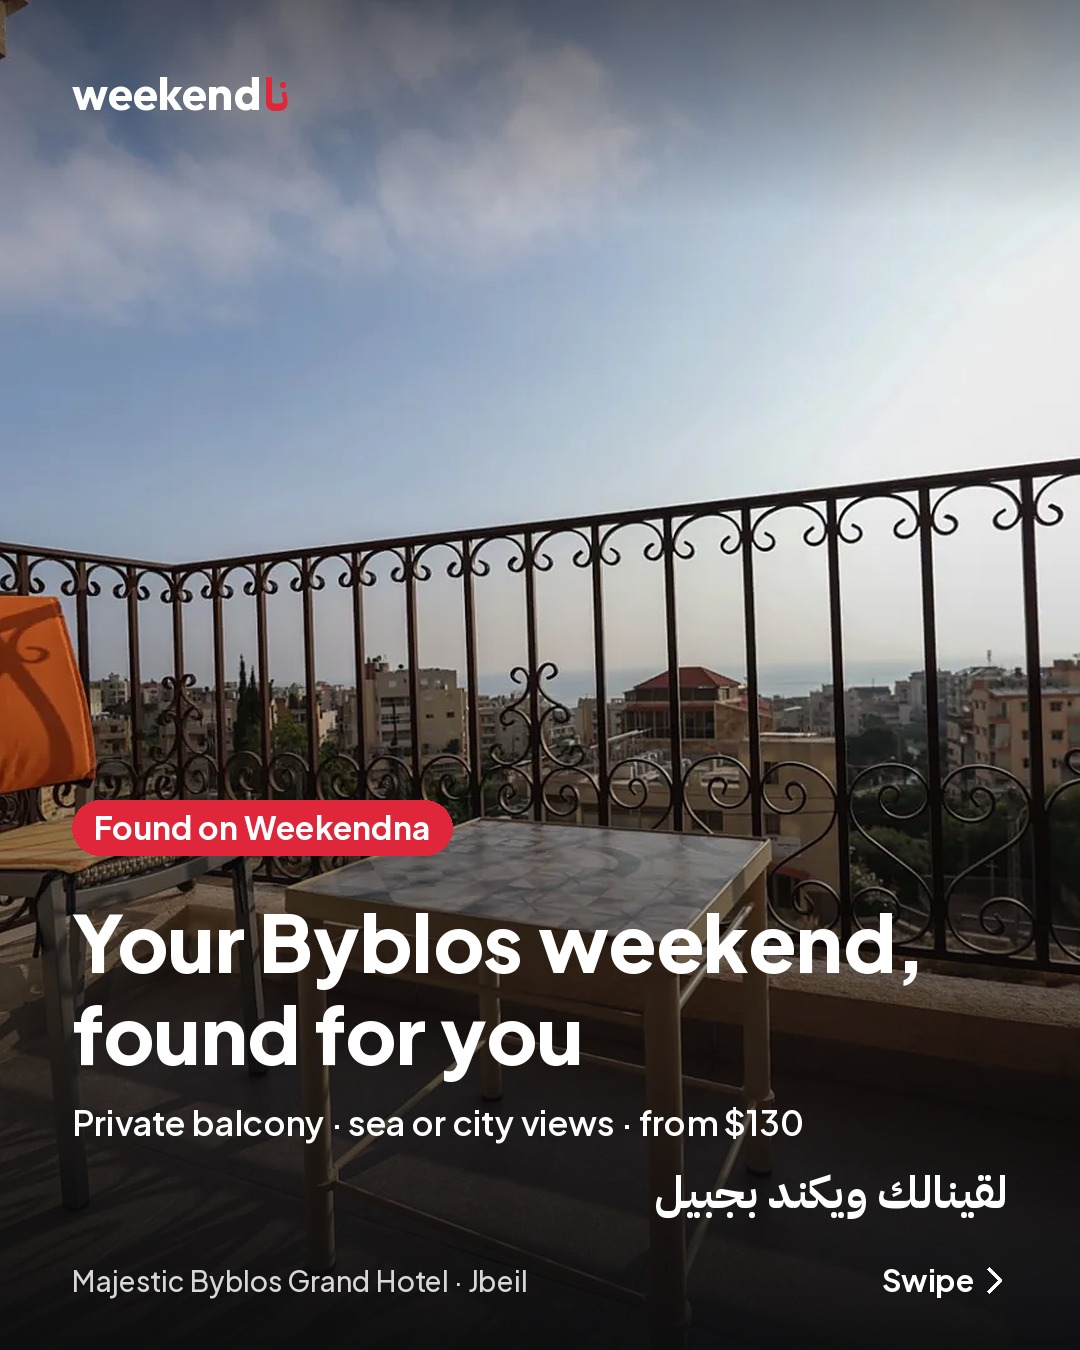
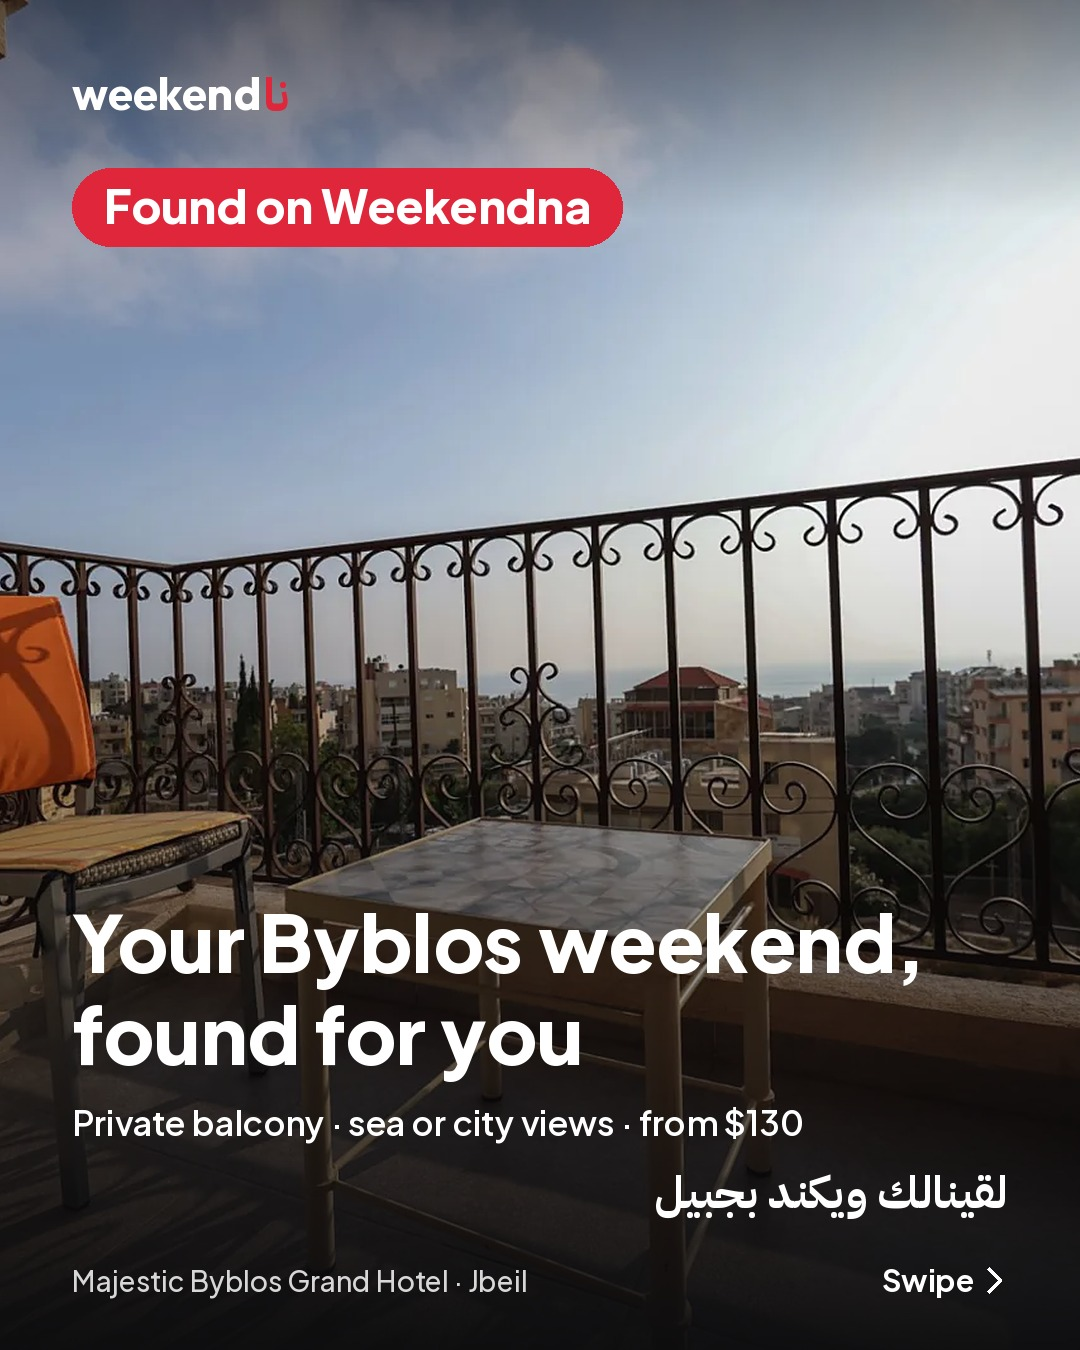
Majestic Byblos: final tweaks; playbook design + copy rules
Claude-Session: https://claude.ai/code/session_01QuaNDfVQtKgMydg627z6et

Changed region(s): [[0.0611, 0.1244, 0.5806, 0.1867], [0.0611, 0.5911, 0.4278, 0.6533]]

diff --git a/tools/examples/make_majestic_v2.py b/tools/examples/make_majestic_v2.py
@@ -16,7 +16,7 @@ def big_button(d, cx, y, t, f, h, bg, fg, pad=60):
 img = cover(ph, W, H, cx=0.58, cy=0.5).filter(ImageFilter.UnsharpMask(radius=1.4, percent=50, threshold=2))
 img = shade(img, 500, alpha=245, k=1.25); d = ImageDraw.Draw(img)
 logo(d, M, 64)
-pill(d, M, 800, "Found on Weekendna", jak(700, 32))
+pill(d, M, 168, "Found on Weekendna", jak(800, 46), pad=(32, 18))
 d.text((M, 892), "Your Byblos weekend,", font=jak(800, 78), fill=WHITE)
 d.text((M, 984), "found for you", font=jak(800, 78), fill=WHITE)
 d.text((M, 1100), "Private balcony · sea or city views · from $130", font=jak(600, 34), fill=WHITE)
@@ -29,19 +29,19 @@ img.save(f"{POST}/majestic-1.jpg", quality=92)
 # ---------- Slide 3: strong follow + next step ----------
 img = Image.new("RGB", (W, H), RED); d = ImageDraw.Draw(img); logo(d, M, 64, accent=INK)
 pt = "Found on Weekendna"; pf = jak(700, 30); pw = d.textlength(pt, font=pf)
-pill(d, int((W - pw) / 2 - 22), 215, pt, pf, fg=RED, bg=WHITE)
-ctext(d, 320, "Your Byblos", jak(800, 96), WHITE); ctext(d, 430, "weekend starts here", jak(800, 76), WHITE)
-ctext(d, 545, "Sea views + private balcony, from $130", jak(500, 36), WHITE)
-ctext(d, 605, "ويكندكن بجبيل بيبلش من هون", ar(700, 40), WHITE, rtl=True)
-d.rounded_rectangle((90, 700, W - 90, 960), radius=36, fill=WHITE)
-ctext(d, 728, "Want this place?", jak(800, 42), RED)
-ctext(d, 800, "Comment BYBLOS and we'll", jak(700, 40), INK)
-ctext(d, 850, "check availability for you", jak(700, 40), INK)
-ctext(d, 910, "بدك هالمكان؟ اكتبلنا بالتعليق وبنتأكدلك", ar(600, 28), (90, 90, 90), rtl=True)
-big_button(d, W / 2, 1010, "Follow @weekendna.lb", jak(800, 52), 118, INK, WHITE)
-ctext(d, 1160, "New places every week", jak(700, 36), WHITE)
-ctext(d, 1215, "تابعونا، كل أسبوع محل جديد", ar(600, 32), WHITE, rtl=True)
-ctext(d, 1285, "Request your dates on WhatsApp · nothing to pay yet · link in bio", jak(500, 25), (255, 228, 230))
+pill(d, int((W - pw) / 2 - 22), 180, pt, pf, fg=RED, bg=WHITE)
+ctext(d, 270, "Your Byblos", jak(800, 92), WHITE); ctext(d, 375, "weekend starts here", jak(800, 72), WHITE)
+ctext(d, 480, "Sea views + private balcony, from $130", jak(500, 34), WHITE)
+ctext(d, 536, "ويكندكن بجبيل بيبلش من هون", ar(700, 38), WHITE, rtl=True)
+d.rounded_rectangle((90, 625, W - 90, 895), radius=36, fill=WHITE)
+ctext(d, 650, "Want this place?", jak(800, 44), RED)
+ctext(d, 725, "Comment BYBLOS and we'll", jak(800, 44), INK)
+ctext(d, 778, "check availability for you", jak(800, 44), INK)
+ctext(d, 842, "بدك هالمكان؟ اكتبلنا بالتعليق وبنتأكدلك", ar(600, 28), (90, 90, 90), rtl=True)
+big_button(d, W / 2, 940, "Follow @weekendna.lb", jak(800, 52), 118, INK, WHITE)
+ctext(d, 1085, "New places every week", jak(800, 54), WHITE)
+ctext(d, 1160, "تابعونا، كل أسبوع محل جديد", ar(700, 36), WHITE, rtl=True)
+ctext(d, 1265, "Request your dates on WhatsApp · nothing to pay yet · link in bio", jak(500, 25), (255, 228, 230))
 img.save(f"{POST}/majestic-3.jpg", quality=92)
 
 # ---------- Story 1080x1920 ----------
@@ -60,7 +60,7 @@ sc(1110, "Your Byblos weekend,", jak(800, 68), WHITE); sc(1195, "found for you",
 sc(1292, "Private balcony · sea or city views · from $130", jak(500, 32), WHITE)
 sc(1346, "لقينالك ويكند بجبيل", ar(700, 42), WHITE, rtl=True)
 d.rounded_rectangle((90, 1425, SW - 90, 1560), radius=32, fill=WHITE)
-sc(1443, "Want this place?", jak(800, 38), RED); sc(1505, "Reply BYBLOS, we'll check availability", jak(700, 33), INK)
+sc(1443, "Want this place?", jak(800, 38), RED); sc(1505, "Reply BYBLOS for availability", jak(700, 33), INK)
 big_button(d, SW / 2, 1595, "Follow @weekendna.lb", jak(800, 48), 112, RED, WHITE)
 sc(1730, "New places every week", jak(700, 34), WHITE); sc(1785, "تابعونا، كل أسبوع محل جديد", ar(600, 32), WHITE, rtl=True)
 sc(1850, "weekendna.com · link in bio", jak(500, 30), (225, 225, 225))

diff --git a/PLAYBOOK.md b/PLAYBOOK.md
@@ -2,6 +2,16 @@
 
 How @weekendna.lb posts are made and scheduled. Written for the weekly scheduled task, which starts with no memory of earlier chats.
 
+## DESIGN + COPY RULES (Kamel, 30 Oct 2026) — SUPERSEDE any conflicting rule below
+Goal: every post pushes people to follow @weekendna.lb. Posts must feel like "Weekendna found this place for you", not a hotel ad. Weekendna is the hero.
+- **Slide 1 / hook:** benefit-led headline ("Your Byblos weekend, found for you") plus a BIG red "Found on Weekendna" badge placed HIGH (just under the logo, ~46px bold) so it's visible in the first second. The place name is small print. Collab posts may say "Now on Weekendna" instead. Reference: `tools/examples/make_majestic_v2.py` (copy it for each new post: it renders slide 1, last slide, story).
+- **Middle slide(s):** the features (keep as before).
+- **Last slide:** "Your <place> weekend starts here" + one benefit line + a white card as the MAIN action ("Want this place? Comment <KEYWORD> and we'll check availability for you"; keyword = region or place in caps, e.g. BYBLOS, BATROUN) + big dark "Follow @weekendna.lb" button placed right under the card + a prominent "New places every week" line + the small "Request your dates on WhatsApp · nothing to pay yet · link in bio" line. Arabic lines contain no Latin letters on images.
+- **Story:** same idea in 9:16, framed photo, "Found on Weekendna" badge, short white box "Reply <KEYWORD> for availability", large red Follow button, "New places every week".
+- **Caption template:** line 1 = benefit hook; "Found on Weekendna: <facts from the listing, price>"; ONE main CTA "💬 Want this place? Comment <KEYWORD> and we'll check availability for you."; the WhatsApp line "Request your dates on WhatsApp, nothing to pay yet. Link in bio 📅"; LAST "👉 Follow @weekendna.lb so you don't miss the next one. We find a new place for your weekend every week 🏡". Then the Lebanese-dialect Arabic version, then hashtags. "Comment <KEYWORD>" means Kamel replies to those comments/DMs himself; never promise availability, and never message anyone yourself.
+- **Reels:** hook on the benefit, small "Found on Weekendna" tag from the first second, end card with the same comment-keyword + big follow button.
+- **Cadence / times:** the daily task runs 19:24 Beirut; The Friday Drop goes out Thursday evening; the "Follow first" rule below is replaced by "comment CTA first, follow last".
+
 ## Strategy (Oct 2026)
 - The problem is reach, not content: ~11 followers on 20 Oct, 17 on 24 Oct, 1 website click in 2 weeks. Posts alone don't bring guests.
 - **What worked (results to 24 Oct 2026):** almost every post gets 4–20 views. The two hits were both **Aqualand Hotel & Resort** (a resort with its own audience): the 17 Oct sea-view suites feed post (1,904 views, 988 reached, no music) and the 22 Oct Reel made from the owner's own video (394 views, 259 reached). So the engine is **big-audience owners + real sea-view / room footage** (sea view from the bed, the bath, the jacuzzi), not music or posting volume. Whether Aqualand's audience or the content itself drove it isn't known yet: compare the next big-audience owner's results.
